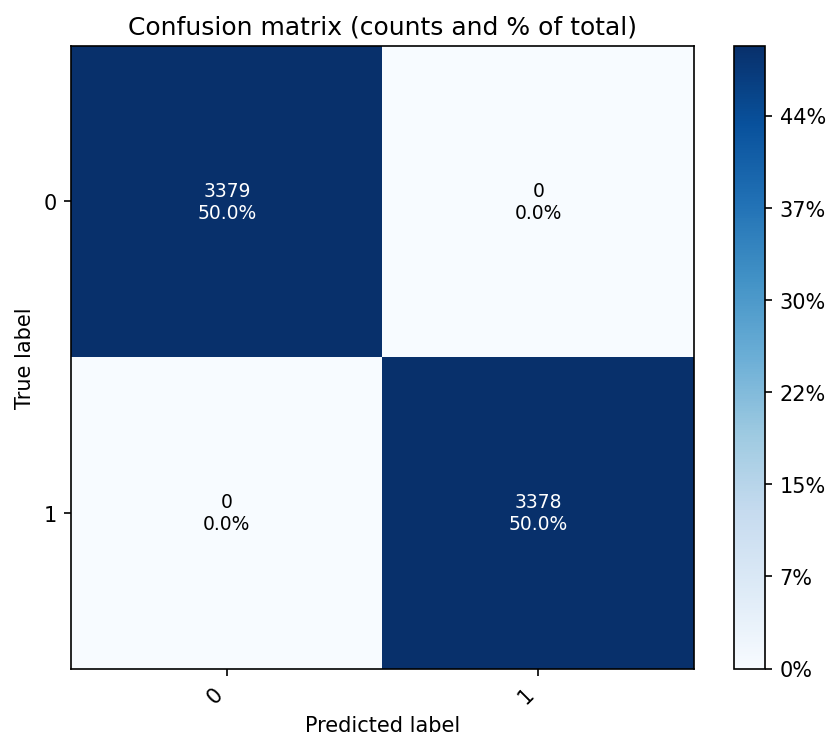
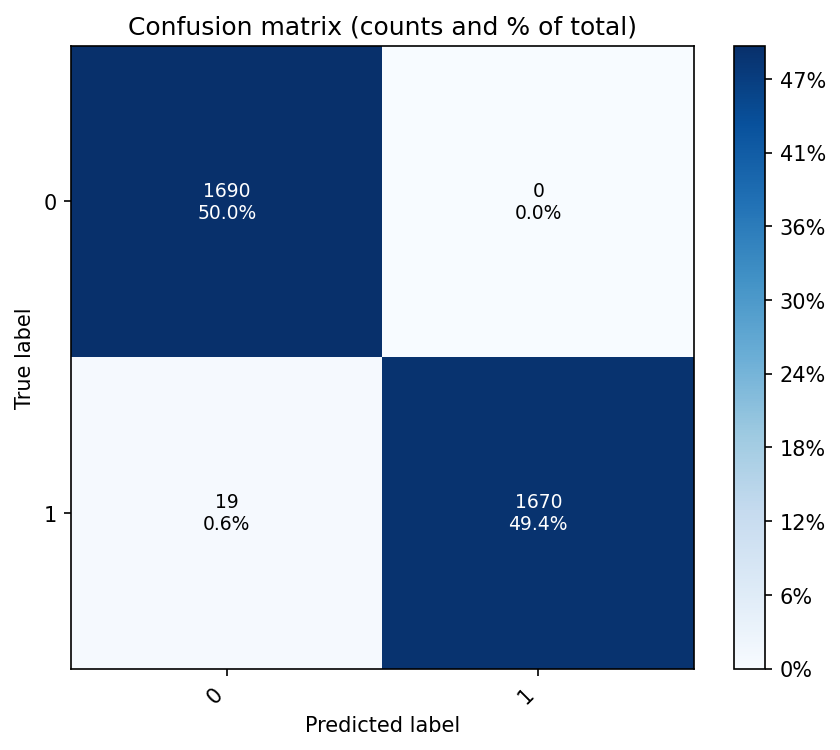
SHI

diff --git a/App/backend/ml.py b/App/backend/ml.py
@@ -154,11 +154,11 @@ def train_from_database(
     df_conf = pd.read_csv(confirmed_csv)
     df_rej = pd.read_csv(rejected_csv)
 
-    # Label and combine
+    # Label and combine: use 1 for confirmed, -1 for false positives (rejected)
     df_conf = df_conf.copy()
     df_rej = df_rej.copy()
     df_conf['__label__'] = 1
-    df_rej['__label__'] = 0
+    df_rej['__label__'] = -1
     df = pd.concat([df_conf, df_rej], ignore_index=True)
 
     # Verify features present
